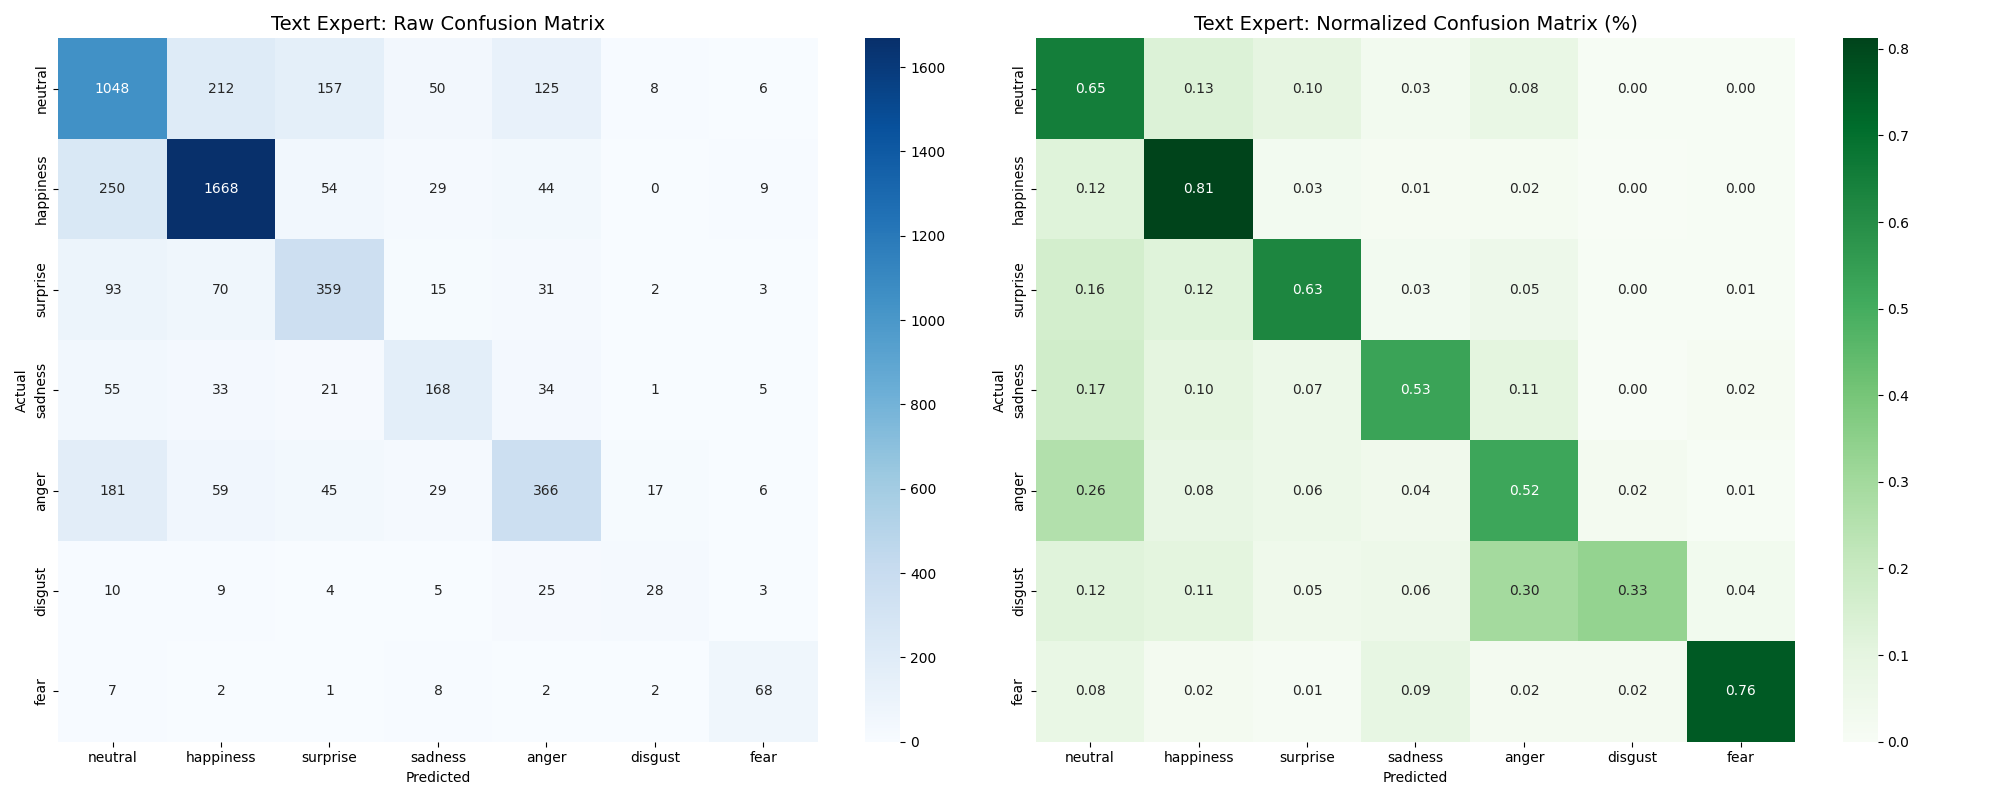
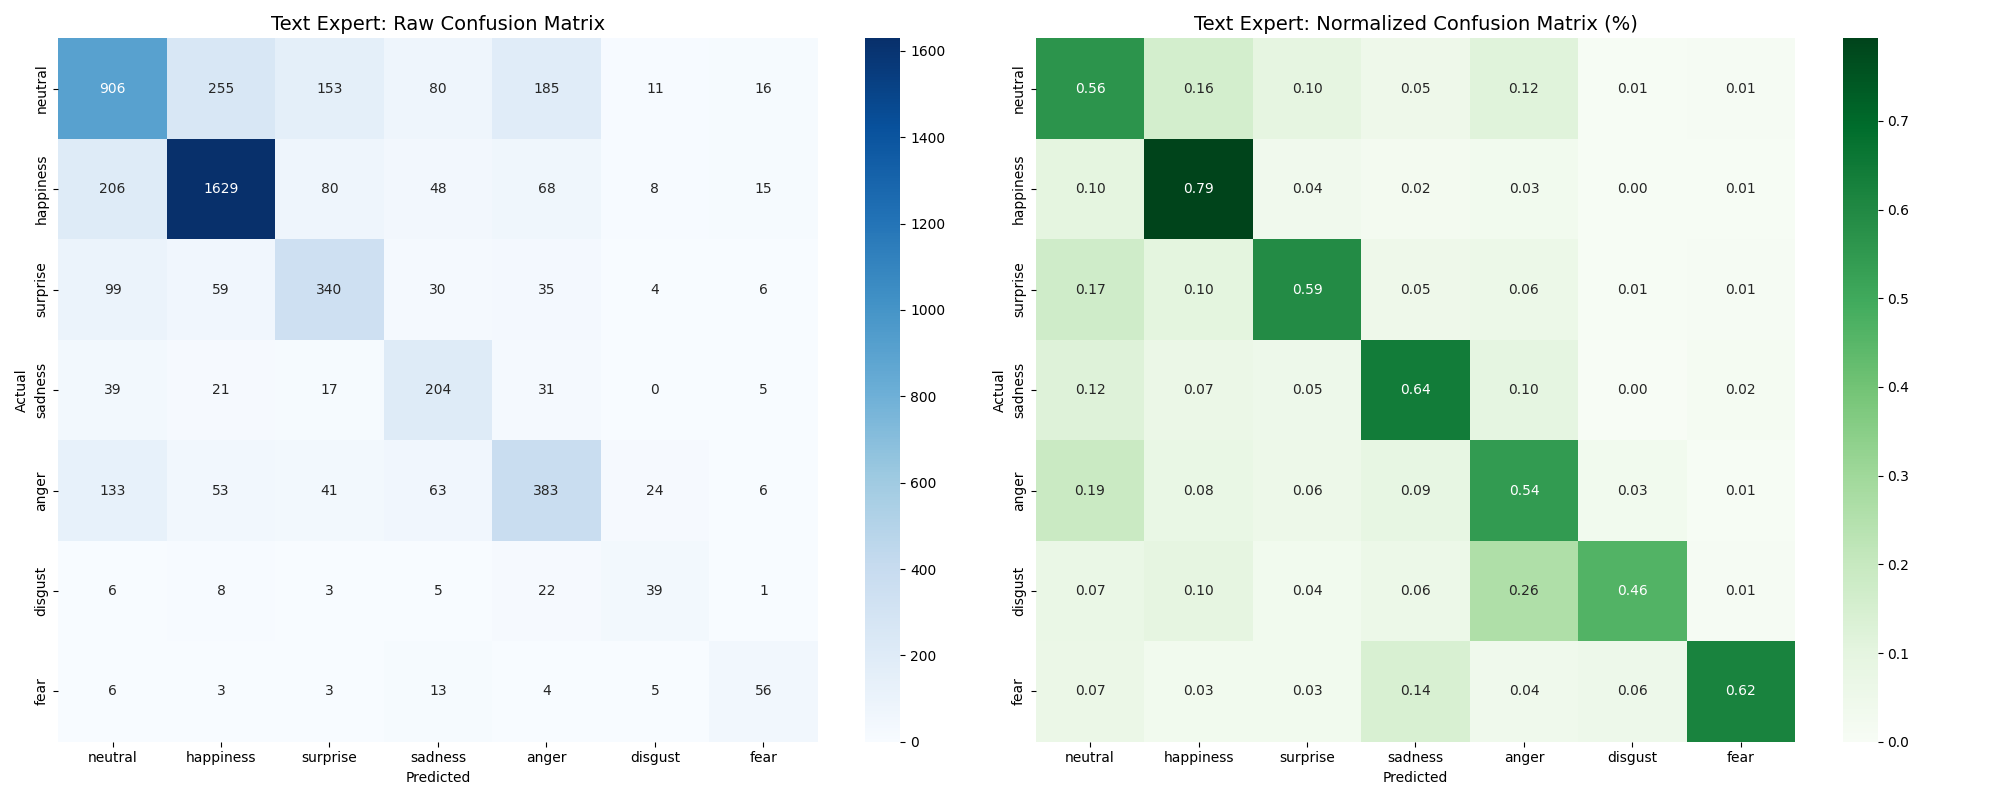
Some results of text model + WeightRandomSampler for GoEmotions dataloader and improved APSO for Text

diff --git a/src/optimization/final_text_apso.py b/src/optimization/final_text_apso.py
@@ -37,15 +37,16 @@ POOLING_MODES = ['max', 'last', 'mean']
 def evaluate_particle(params, train_loader, valid_loader):
     """
     This is what the APSO calls for every particle.
-    params: [learning_rate, dropout_rate, hidden_units, pooling_mode]
+    params: [learning_rate, learning_rate_roberta, dropout_rate, hidden_units, pooling_mode]
     """
-    lr, dropout, hidden, pooling_idx = params
+    lr, lr_r, dropout, hidden, pooling_idx = params
     hidden = int(hidden)
     pooling_mode = POOLING_MODES[round(float(pooling_idx))]
 
     lr = 10 ** lr  # Convert back from log scale
+    lr_r = 10 ** lr_r  # Convert back from log scale
 
-    print(f"\n  [Particle] lr={lr:.6f} | dropout={dropout:.3f} | hidden={hidden} | pooling={pooling_mode}")
+    print(f"\n  [Particle] lr={lr:.6f} | lr_r={lr_r:.6f} | dropout={dropout:.3f} | hidden={hidden} | pooling={pooling_mode}")
 
     # Initialize Model
     model = RobertaBiLSTM(
@@ -63,8 +64,12 @@ def evaluate_particle(params, train_loader, valid_loader):
         param.requires_grad = True
         
     # Only optimize BiLSTM + classifier + Last 2 layers of RoBERTa
-    trainable_params = filter(lambda p: p.requires_grad, model.parameters())
-    optimizer = optim.Adam(trainable_params, lr=lr)
+    optimizer = optim.AdamW([
+        {'params': model.lstm.parameters(), 'lr': lr},
+        {'params': model.classifier.parameters(), 'lr': lr},
+        {'params': model.roberta.encoder.layer[-2:].parameters(), 'lr': lr_r},
+        {'params': model.roberta.pooler.parameters(), 'lr': lr_r},
+    ], weight_decay=0.01)
     criterion = nn.CrossEntropyLoss()
 
     best_f1 = 0.0
@@ -138,17 +143,17 @@ if __name__ == "__main__":
     train_loader, valid_loader, _ = get_text_loaders()
 
     # Define Search Space: (Lower Bounds, Upper Bounds)
-    # [Learning Rate, Dropout, Hidden Units, Pooling Mode]
+    # [Learning Rate, Learning Rate (RoBERTa), Dropout, Hidden Units, Pooling Mode]
     bounds = (
-        [-5, 0.1,  64, 0],   # Min, we use logarmic scale for learning rate
-        [-3, 0.5, 512, 2]    # Max, we use logarmic scale for learning rate
+        [-5, -6, 0.1,  64, 0],   # Min, we use logarmic scale for learning rate
+        [-2, -4, 0.5, 512, 2]    # Max, we use logarmic scale for learning rate
     )
 
     # Initialize Optimizer
     optimizer = APSO(
         fitness_function=lambda p: evaluate_particle(p, train_loader, valid_loader),
         num_particles=10,
-        num_dimensions=4,
+        num_dimensions=5,
         bounds=bounds,
         max_iterations=10,
         alpha=0.3
@@ -160,9 +165,10 @@ if __name__ == "__main__":
     # 3. SAVE RESULTS
     results = {
         "best_learning_rate": float(best_config[0]),
-        "best_dropout":       float(best_config[1]),
-        "best_hidden_units":  int(best_config[2]),
-        "best_pooling_mode":  POOLING_MODES[round(float(best_config[3]))],
+        "best_learning_rate_roberta": float(best_config[1]),
+        "best_dropout":       float(best_config[2]),
+        "best_hidden_units":  int(best_config[3]),
+        "best_pooling_mode":  POOLING_MODES[round(float(best_config[4]))],
         "best_f1_macro":      float(best_score)
     }
 

diff --git a/src/data_pipeline/loaders.py b/src/data_pipeline/loaders.py
@@ -221,9 +221,21 @@ def get_text_loaders():
     val_ds   = TextEmotionDataset(GOEMOTIONS_DIR / "dev.tsv",   tokenizer, mapping, emotions, augment=False)
     test_ds  = TextEmotionDataset(GOEMOTIONS_DIR / "test.tsv",  tokenizer, mapping, emotions, augment=False)
 
+    # Compute per-sample weights from class frequencies
+    labels = train_ds.df['label'].values
+    class_counts = np.bincount(labels)
+    class_weights = 1.0 / class_counts
+    sample_weights = torch.tensor(class_weights[labels], dtype=torch.float32)
+
+    sampler = WeightedRandomSampler(
+        weights=sample_weights,
+        num_samples=len(sample_weights),
+        replacement=True
+    )
+
     # BATCH_SIZE//2 is used here to reduce GPU memory usage, since text models can be large. Adjust as needed.
     train_loader = DataLoader(
-        train_ds, batch_size=BATCH_SIZE//2, shuffle=True, 
+        train_ds, batch_size=BATCH_SIZE//2, sampler=sampler, 
         num_workers=8, pin_memory=True, 
         persistent_workers=True, prefetch_factor=4
     )
